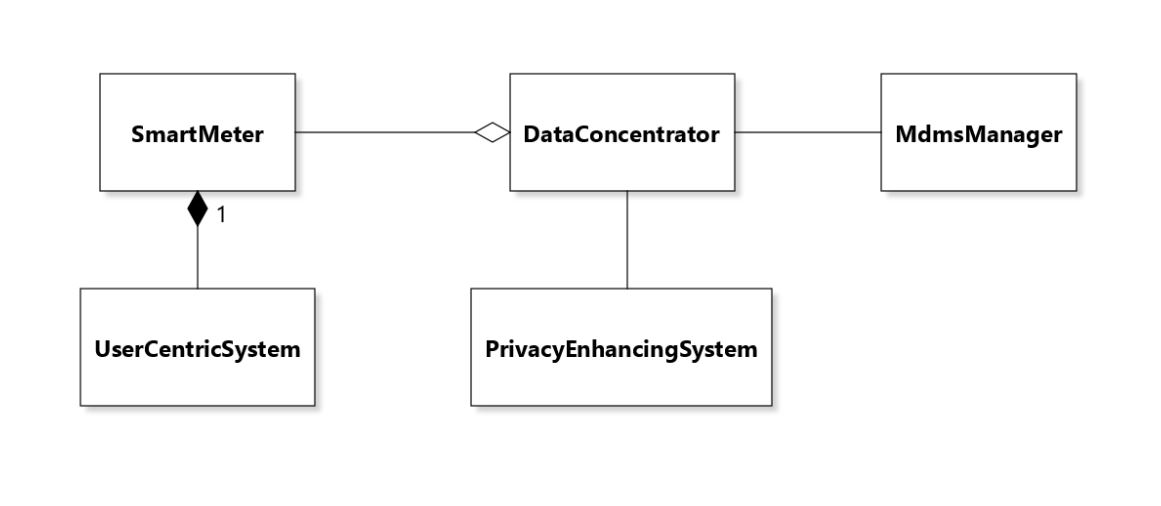
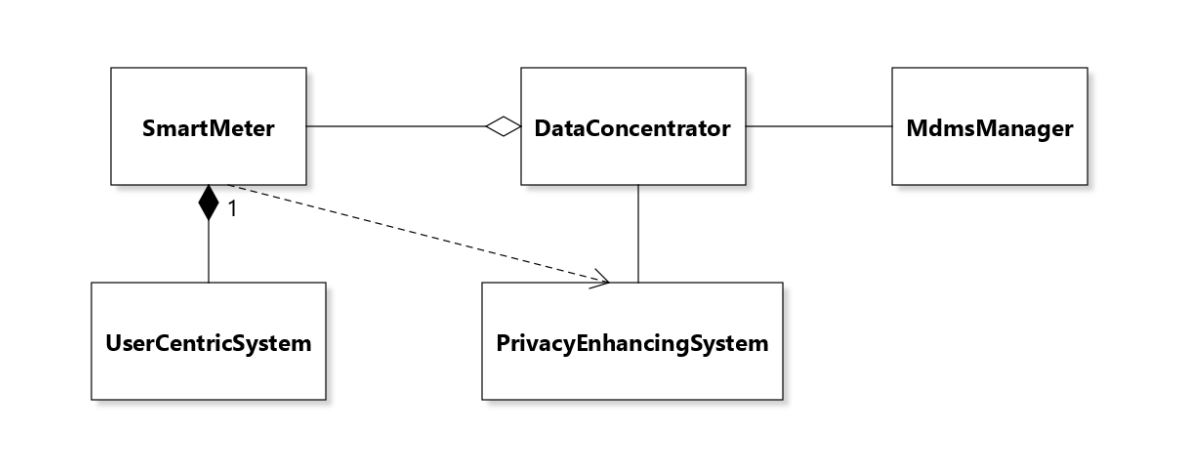
wrote the overview section of section 3

diff --git a/m5/Prototype.md b/m5/Prototype.md
@@ -24,11 +24,24 @@ The most pressing function and privacy requirement of the Smarter Metering syste
 
 ## 3. Implementation of the System 
 
-[First give overview - could use UML diagram here]
+The aim of this project is to enhance privacy for user data by aggregating it, allowing individuals to view their own detailed consumption while also enabling energy suppliers to conduct analyses and calculate billing. The system simulation demonstrates the potential integration of a Privacy Enhancing System (PES) without significantly altering the existing operations of smart meters, data concentrators, and the Meter Data Management System (MDMS). Additionally, a user-centric system has been developed to enable users to access their detailed consumption data.
 
-In order to demonstrate and implement our system, we have generated a simulation of smart meter readings using data from a 2016 data set from the University of Massachusetts Amherst. 
-- Choice of code language etc 
-- Basic overview
+<p align="center">
+  <img src="images/class-diagram-overview.JPG" width=1200px />
+</p>
+
+_**Figure 1.** UML Class Diagram of the system. Only the class names were kept in the diagram for conciseness and to emphasize on the relationships between the classes._
+
+
+In the process flow described:
+
+1. A PES instance is created to generate a public key for the smart meters' use, along with instances of the MDMS manager and a DataConcentrator. The PES public key is crucial for encrypting the AES key of the smart meters, ensuring PES can decrypt the data securely, as indicated by the dependency relationship in the diagram above.
+2. Multiple Smart Meter instances are then created, simulating meter readings from a 2016 dataset provided by the University of Massachusetts Amherst. Each row in the dataset files represents a one-minute reading interval.
+3. These Smart Meter instances are added to the DataConcentrator, which compiles the data and sends a request to the PES to aggregate all readings received up to that point.
+4. The aggregated data is transmitted to the MDMS via the MDMS manager.
+5. The UserCentricSystem is dependent on a Smart Meter instance to operate, indicated by a composition link. Upon initializing a UserCentricSystem object with a Smart Meter, a user account may be set up at the first system start-up. Once the user logs in successfully, they can access their detailed consumption data exclusively.
+
+In the next subsections, we will be diving deeper into each component of the system, the choices made during implementation, and examine how these decisions align with the objectives established in this report and its predecessor.
 
 ### 3.1 Simulation of Generation of Readings from Smart Meter 
 The smart meter class, available in smart_meter.py, encapsulates the functionality of a smart meter, which collects energy consumption data and transmits it to the PES. 
